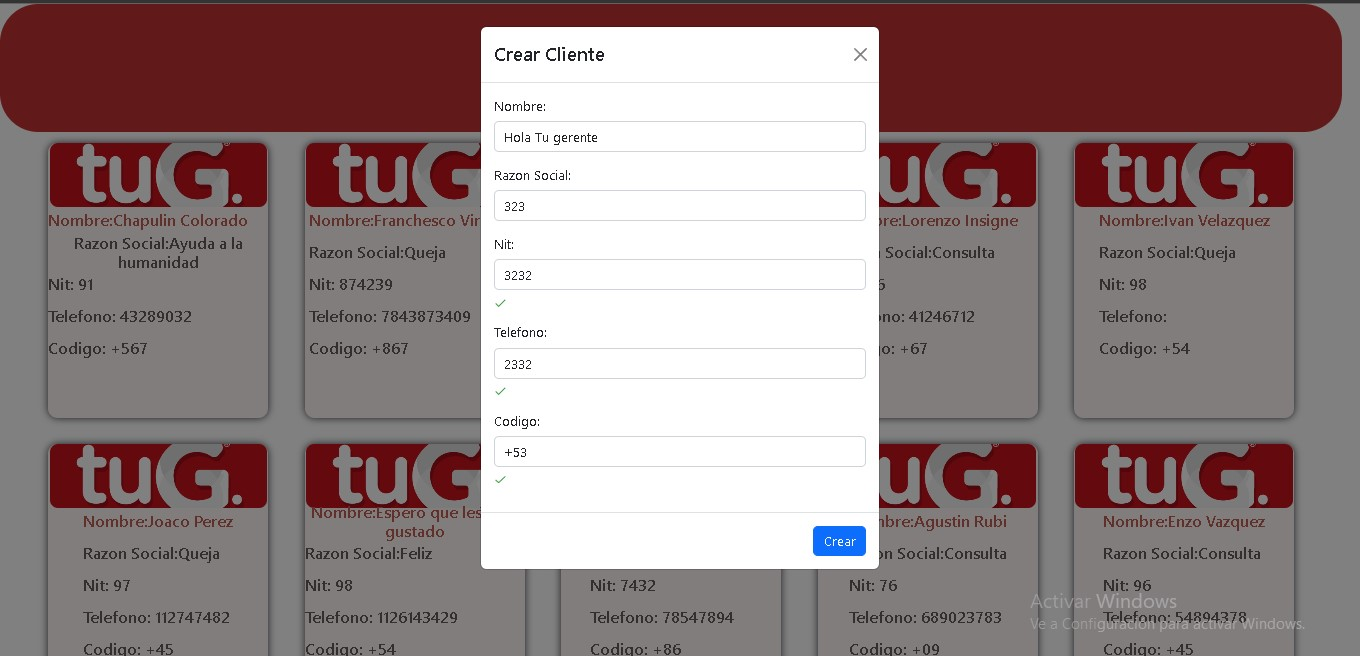
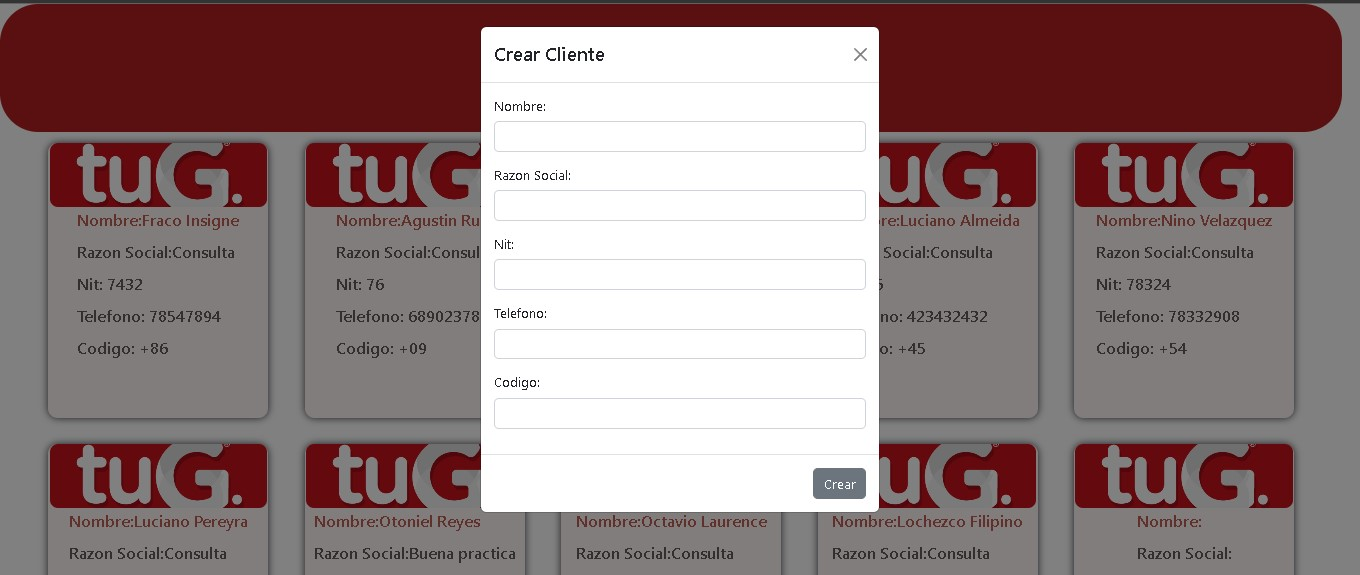
screenshots

diff --git a/src/Components/Modal/Modal.jsx b/src/Components/Modal/Modal.jsx
@@ -174,7 +174,7 @@ export default function ModalInput({ showClose, closeModal }) {
           This is a danger alert—check it out!
         </div> : null}
         <Modal.Footer>
-          <Button variant="primary" onClick={handleSubmit}>
+          <Button className='btn btn-secondary' onClick={handleSubmit}>
             Crear
           </Button>
         </Modal.Footer>
